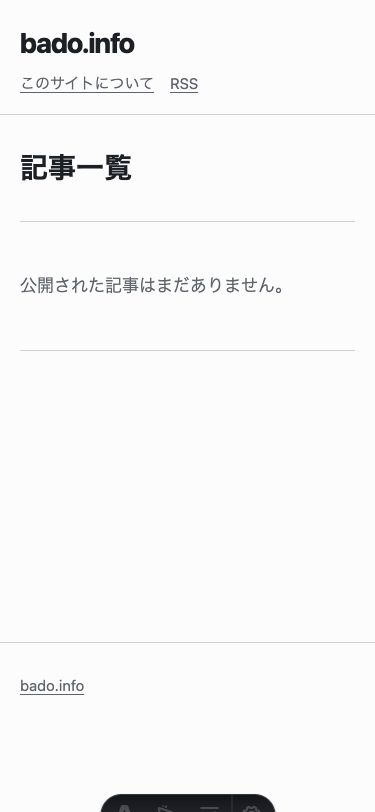
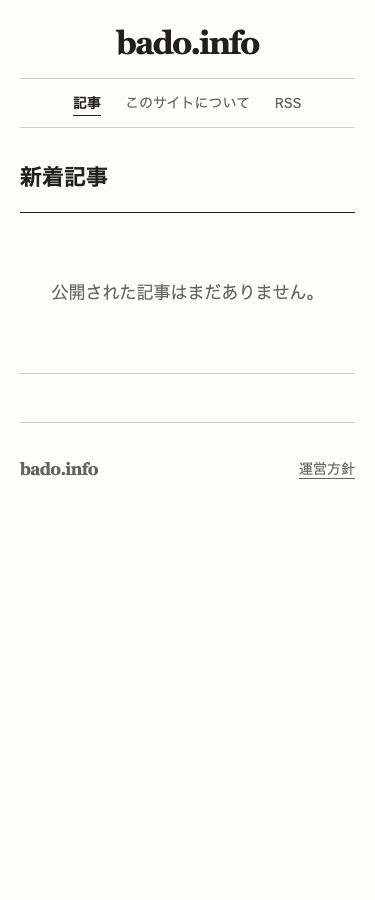
Record verified UI deployment and production screenshots

diff --git a/docs/10-deployment.md b/docs/10-deployment.md
@@ -49,3 +49,15 @@ canonicalとRSS内のURLは、実際に配信しているhttps://bado-info.amtt.
 標準urllibのUser-AgentはCloudflare 1010/403。同じPythonクライアントにbado-info-feed-check/1.0という識別用User-Agentを付けると200でXML解析成功、item 0。サイト側に認証は追加していない。
 
 Cloudflare公式のBIC設定手順はzoneに対する設定を示す。workers.devでこの拒否をアプリ設定だけで変更できる公式手順は確認できていない。セキュリティ設定を変更したり、RSSクライアント全体の動作を保証したりはしない。現在の受け入れ確認はcurl、IAB、識別用User-Agentを付けたurllibでの取得まで。
+
+## UI再設計の公開（2026-10-25）
+
+92aae41をmainへpush。中央のセリフ体マストヘッド、独立したナビ、日付・見出し・要約を縦にまとめた一覧、詳細の概要と出典領域を実装。Devbox check/test/build成功。
+
+Void 1.2.1の静的デプロイは、アップロード後の検証でinheritance-source-changedとして停止した。CLI文面には「No version was uploaded」とあったが、Cloudflare上には候補版f46dce59-5145-4024-8a98-af928ebc2395が存在した。停止の根本原因は未確定。安全確認を無効化したり依存を改変したりはしていない。
+
+稼働版と候補版のバインディングがASSETSと__VOID_VERSION_METADATAだけであることを確認。Void候補版のプレビューでトップHTML・CSS・運営方針・RSSが手元のdistと完全一致し、/__void/readyが同じ候補versionIdを返すことを確認した。復旧操作として既存のWrangler 4.152.0のversions deployで、この検証済み候補版へ100%の公開トラフィックを切り替えた。新たなビルド方式へ置き換えてはいない。ドメイン・DNS・非バージョン設定の変更なし。
+
+公開先は引き続き https://bado-info.amtt.workers.dev/ 。IABの375/1280pxで新しいmasthead、Georgiaのサイト名（32/40px）、新ナビ、横はみ出しなし、正しいcanonicalを確認。screenshots/published-1280.pngとhome-375.pngを更新。公開記事0件。検証用記事はローカルだけ。
+
+復旧で参照した公式資料：https://developers.cloudflare.com/workers/versions-and-deployments/ 、https://developers.cloudflare.com/workers/wrangler/commands/workers/ 。今後同じ停止が出ても未検証の候補をそのまま有効化しない。
